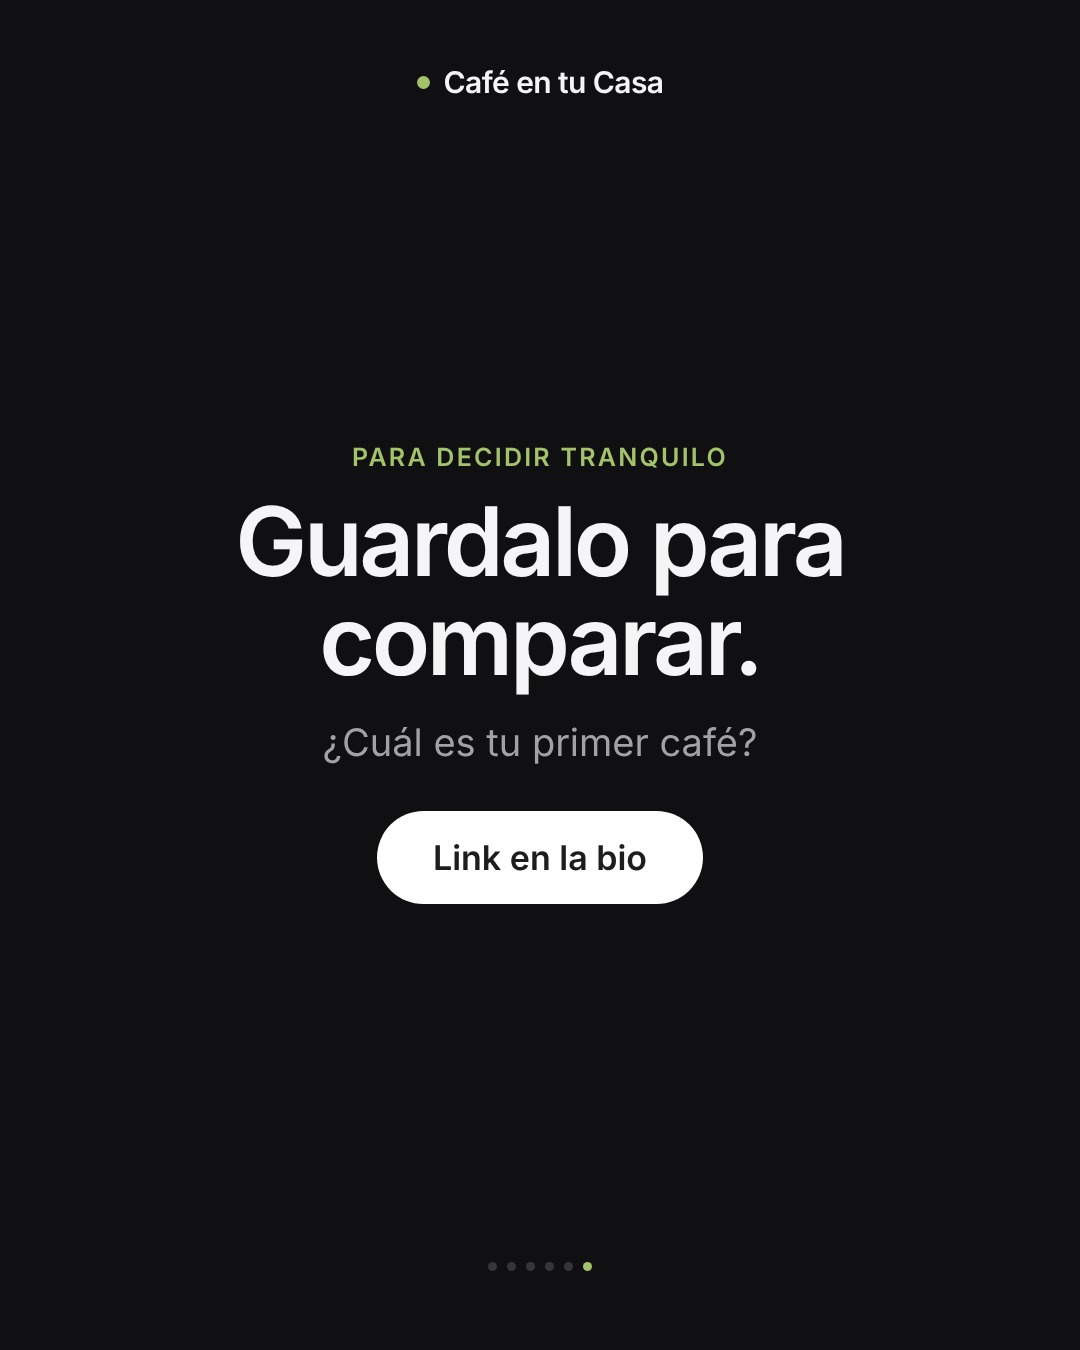
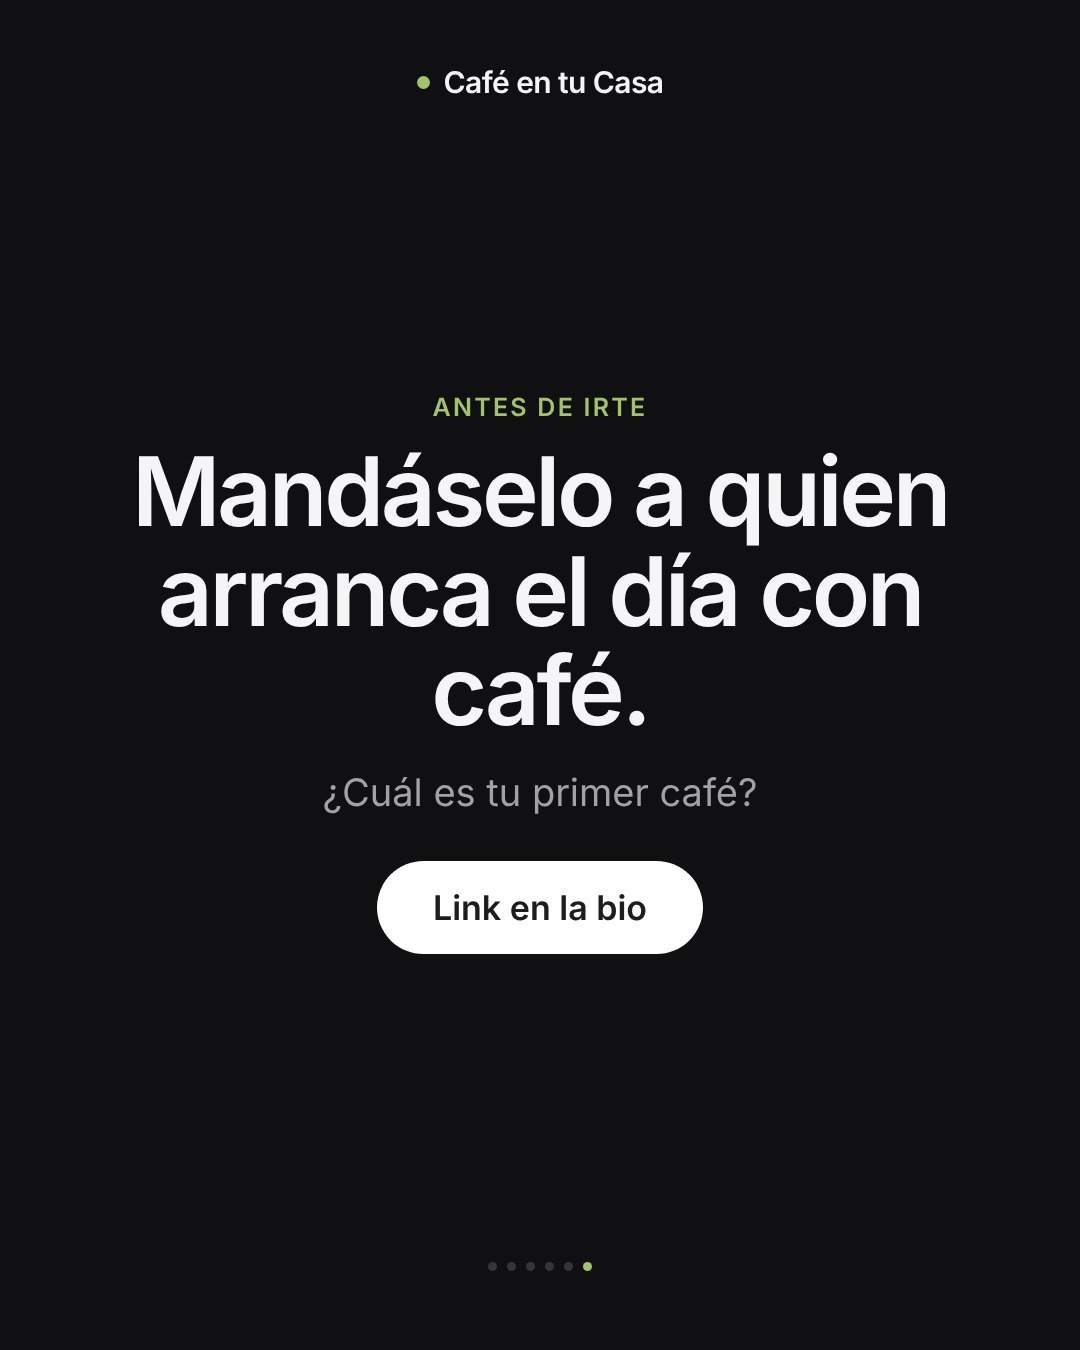
SEO y estética: palabras clave en títulos, FAQ de cápsulas, precios del café alineados con los carruseles
- Títulos de página con 'cafetera superautomática/espresso' y 'qué cafetera comprar'
- Palabras clave visibles arriba del H1; alt de la foto principal descriptivo
- FAQ nuevas: diferencia con cápsulas y qué es una superautomática
- Sección del concepto sin tarjetas, para cortar la seguidilla de cajas
- Café afuera $4.000 y kilo $60.000 (relevados el 26/10, los mismos de los carruseles)
- Piezas nuevas: cierre con motivo concreto en vez de 'Guardalo para comparar'

Claude-Session: https://claude.ai/code/session_019YKpfs3ape9hY2rsYQRxe8

Changed region(s): [[0.1222, 0.28, 0.8861, 0.7156]]

diff --git a/index.html b/index.html
@@ -3,14 +3,14 @@
 <head>
 <meta charset="UTF-8">
 <meta name="viewport" content="width=device-width, initial-scale=1">
-<title>Café en tu Casa — Cafeteras De'Longhi y Krups con 20% OFF</title>
-<meta name="description" content="Tu casa merece café de verdad. Cafeteras espresso y superautomáticas De'Longhi y Krups: café en grano, recién molido, con un botón. 20% OFF pagando por transferencia o hasta 9 cuotas sin interés en Mercado Libre. Envío gratis a todo el país.">
+<title>Cafeteras superautomáticas y espresso De'Longhi | Café en tu Casa</title>
+<meta name="description" content="Cafeteras superautomáticas y espresso De'Longhi para tu casa: café en grano, recién molido, con un botón. La alternativa a las cápsulas. 20% OFF pagando por transferencia o hasta 9 cuotas sin interés en Mercado Libre. Envío gratis a todo el país.">
 <meta name="theme-color" content="#ffffff">
 <link rel="canonical" href="https://cafe-en-tu-casa.vercel.app/">
 
 <meta property="og:type" content="website">
 <meta property="og:site_name" content="Café en tu Casa">
-<meta property="og:title" content="Café en tu Casa — Cafeteras De'Longhi y Krups">
+<meta property="og:title" content="Café en tu Casa — Tu casa merece café de verdad">
 <meta property="og:description" content="Tu casa merece café de verdad. Vos también. 20% OFF por transferencia o hasta 9 cuotas sin interés. Envío gratis a todo el país.">
 <meta property="og:image" content="https://cafe-en-tu-casa.vercel.app/assets/img/og.jpg">
 <meta property="og:image:width" content="1200">
@@ -80,7 +80,7 @@
         <span data-slot="off">20%</span> OFF por transferencia
       </span>
 
-      <h1 class="t-display">Tu casa merece<br>café de verdad.<br>Vos también.</h1>
+      <h1 class="t-display"><span class="h1-clave">Cafeteras superautomáticas y espresso para tu casa</span>Tu casa merece<br>café de verdad.<br>Vos también.</h1>
 
       <p class="plomo">Café en grano, recién molido, con un botón. Superautomáticas y espresso
       De'Longhi y Krups, con envío gratis a todo el país.</p>
@@ -99,7 +99,7 @@
     <div class="hero-img">
       <picture>
         <source media="(max-width: 900px)" srcset="assets/img/hero-mobile.jpg">
-        <img src="assets/img/hero.jpg" alt="Cafetera superautomática sobre una mesada de cocina" width="1792" height="2400" fetchpriority="high">
+        <img src="assets/img/hero.jpg" alt="Mujer con un café con leche junto a su cafetera superautomática, en la cocina de su casa" width="1792" height="2400" fetchpriority="high">
       </picture>
     </div>
   </section>
@@ -132,12 +132,12 @@
     <div class="envoltorio">
       <header class="centro aparece" style="max-width:640px;margin:0 auto clamp(32px,4vw,48px)">
         <p class="epigrafe">El lujo de todos los días</p>
-        <h2 class="t-1" style="margin:14px 0 16px">Una buena mañana empieza con un buen café.</h2>
+        <h2 class="t-1" style="margin:14px 0 16px">Café de cafetería, en tu casa, todas las mañanas.</h2>
         <p class="plomo">El lujo no es algo que se guarda para una ocasión especial. Es el primer café
         del día, hecho como te gusta, en tu casa. Y te lo merecés todas las mañanas.</p>
       </header>
 
-      <div class="franja">
+      <div class="franja franja-plana">
         <article class="franja-item aparece">
           <h3>Ganás tiempo</h3>
           <p>No salís a buscarlo ni hacés fila. Apretás un botón y en un minuto está en tu taza.</p>
@@ -158,7 +158,7 @@
   <section class="seccion negro" id="capsulas">
     <div class="envoltorio">
       <header class="centro aparece" style="max-width:640px;margin:0 auto clamp(32px,4vw,48px)">
-        <p class="epigrafe" style="color:#a3c26a">La diferencia</p>
+        <p class="epigrafe" style="color:#a3c26a">Cápsulas o café en grano</p>
         <h2 class="t-1" style="margin:14px 0 16px">Una buena mañana<br>no viene en cápsulas.</h2>
         <p class="plomo">No es otra cafetera. Es otro café.</p>
       </header>
@@ -343,6 +343,19 @@
           <p>Sí. Desde cada ficha de producto tenés el botón que te lleva a nuestra publicación oficial
           en Mercado Libre, donde comprás con tarjeta de crédito en cuotas sin interés (hasta 9 según el modelo).
           El descuento por transferencia no se combina con la financiación en cuotas.</p>
+        </details>
+        <details>
+          <summary>¿Qué diferencia hay con una cafetera de cápsulas?</summary>
+          <p>La cafetera de cápsulas usa café que se molió en la fábrica y viene encerrado en cada cápsula.
+          Una superautomática muele el café en grano en el momento, para cada taza, y vos elegís el grano,
+          la molienda y la intensidad. Las dos se usan con un botón; la diferencia está en la taza.
+          Y en vez de una cápsula por café, queda borra, que sirve para las plantas.</p>
+        </details>
+        <details>
+          <summary>¿Qué es una cafetera superautomática?</summary>
+          <p>Es una cafetera express con molinillo integrado: cargás el café en grano y, con un botón, la máquina
+          muele, prepara y sirve el espresso sola. La Magnifica S es superautomática. La Dedica es una espresso
+          manual: el café lo cargás y lo preparás vos, con portafiltro, como en una cafetería.</p>
         </details>
         <details>
           <summary>¿Hacen envíos a todo el país?</summary>

diff --git a/instagram/contenido.js b/instagram/contenido.js
@@ -582,6 +582,8 @@ const PIEZAS = [
     const foto = n => ({ t: 'escena', estilo: 'limpia', img: E(n) });
     const tarjeta = (n, ep, h, extra = {}) => ({ t: 'escena', estilo: 'tarjeta', img: E(n), ep, h, ...extra });
     const cierre = sub => ({ t: 'cta', tono: 'oscuro', ep: 'Para decidir tranquilo', h: 'Guardalo para comparar.', sub, boton: 'Link en la bio' });
+    // Cierre con un motivo concreto (regla del calendario: nada de "Guardalo para comparar")
+    const cierreE = (accion, motivo, sub) => ({ t: 'cta', tono: 'oscuro', ep: 'Antes de irte', h: `${accion}<br>${motivo}`, sub, boton: 'Link en la bio' });
     const pago = ps => ps.map(preciosCortos).join('\n\n') + '\n\n' + COMO_PAGAR + ' Envío gratis a todo el país.';
     const texto = (gancho, cuerpo, ps, accion, pregunta, tags) =>
       `${gancho}\n\n${cuerpo}\n\n${pago(ps)}\n\n${accion}\n\n${pregunta}\n\n${tags}`;
@@ -657,11 +659,11 @@ const PIEZAS = [
            items: [['Tiempo', 'No salís a buscarlo. Apretás un botón.'],
                    ['Sabor', 'El grano se muele en el momento, para cada taza.'],
                    ['Buen humor', 'El día arranca bien. Y se nota.']] },
-         foto('magnifica-latte-art'), ...DISP.map(placaPrecio), cierre('¿Cuál es tu primer café?')]),
+         foto('magnifica-latte-art'), ...DISP.map(placaPrecio), cierreE('Mandáselo a quien', 'arranca el día con café.', '¿Cuál es tu primer café?')]),
       pieza('e1130-post-vos-tambien', 'post', 'Tu casa merece café de verdad',
         texto('Tu casa merece café de verdad. Vos también. ☕',
           `Trabajaste todo el año. Una buena mañana empieza con un buen café, y ese café lo podés tener en tu cocina. La ${P.nombre(M)} muele el grano en el momento y te lo sirve con un botón.`,
-          [M], 'Guardalo para comparar.', '¿Hace cuánto que te debés un buen café en casa?', '#cafeencasa #delonghi #magnificas #telomereces'),
+          [M], 'Mandáselo a quien se merece un buen café este año.', '¿Hace cuánto que te debés un buen café en casa?', '#cafeencasa #delonghi #magnificas #telomereces'),
         [tarjeta('magnifica-desayuno-pareja', 'Café de cafetería, en tu casa', 'Tu casa merece café de verdad.<br><em>Vos también.</em>')]),
       pieza('e1204-carrusel-no-viene-en-capsulas', 'carrusel', 'Una buena mañana no viene en cápsulas',
         texto('Una buena mañana no viene en cápsulas. ☕',
@@ -674,8 +676,8 @@ const PIEZAS = [
              { destacada: true, ep: 'Grano', h: 'Molido en el momento', items: ['Vos elegís grano y molienda', 'Queda borra, para las plantas'] }
            ] },
          { t: 'dato', tono: 'oscuro', ep: 'Cada taza de grano, aprox.', num: fmt(costoCasa),
-           sub: `Con un kilo a ${fmt(TIENDA.precioKiloCafe)} y ${TIENDA.cafesPorKilo} tazas por kilo.`, p: 'Valor aproximado, con precio de grano de noviembre 2026.' },
-         ...DISP.map(placaPrecio), cierre('¿Cápsula o grano?')]),
+           sub: `Con un kilo a ${fmt(TIENDA.precioKiloCafe)} y ${TIENDA.cafesPorKilo} tazas por kilo.`, p: 'Valor aproximado, con precio de grano relevado el 26/10.' },
+         ...DISP.map(placaPrecio), cierreE('Mandáselo a quien', 'todavía toma de cápsula.', '¿Cápsula o grano?')]),
       pieza('e1214-post-te-das-el-gusto', 'post', 'Te das el gusto porque podés',
         texto('Te das el gusto porque podés. ☕',
           `Este año el regalo es para vos. Es de los que se usan todas las mañanas, durante años. La ${P.nombre(M)}: un botón, grano recién molido, el café de cafetería en tu casa.`,
@@ -688,7 +690,7 @@ const PIEZAS = [
         [tarjeta('dedica-negra-espresso', 'Lunes', 'Un espresso corto<br><em>para arrancar.</em>'),
          tarjeta('dedica-blanca-espumando', 'Miércoles', 'Un latte<br><em>sin apuro.</em>'),
          tarjeta('magnifica-desayuno-familia', 'Domingo', 'Un cortado<br><em>para compartir.</em>'),
-         ...DISP.map(placaPrecio), cierre('¿Cuál es tu café del domingo?')])
+         ...DISP.map(placaPrecio), cierreE('Guardalo:', 'es tu menú de la semana.', '¿Cuál es tu café del domingo?')])
     ];
   })()
 ];

diff --git a/magnifica-s.html b/magnifica-s.html
@@ -3,14 +3,14 @@
 <head>
 <meta charset="UTF-8">
 <meta name="viewport" content="width=device-width, initial-scale=1">
-<title>De'Longhi Magnifica S ECAM11112B — Café en tu Casa</title>
+<title>Cafetera superautomática De'Longhi Magnifica S ECAM11112B | Café en tu Casa</title>
 <meta name="description" content="De'Longhi Magnifica S ECAM11112B superautomática con molinillo integrado. 20% OFF pagando por transferencia o 9 cuotas sin interés en Mercado Libre. Envío gratis a todo el país.">
 <meta name="theme-color" content="#ffffff">
 <link rel="canonical" href="https://cafe-en-tu-casa.vercel.app/magnifica-s.html">
 
 <meta property="og:type" content="product">
 <meta property="og:site_name" content="Café en tu Casa">
-<meta property="og:title" content="De'Longhi Magnifica S ECAM11112B">
+<meta property="og:title" content="Cafetera superautomática De'Longhi Magnifica S">
 <meta property="og:description" content="Superautomática con molinillo integrado. 20% OFF por transferencia o 9 cuotas sin interés.">
 <meta property="og:image" content="https://cafe-en-tu-casa.vercel.app/assets/img/og-magnifica-s.jpg">
 <meta property="og:image:width" content="1200">

diff --git a/krups-roma.html b/krups-roma.html
@@ -3,14 +3,14 @@
 <head>
 <meta charset="UTF-8">
 <meta name="viewport" content="width=device-width, initial-scale=1">
-<title>Krups Roma EA8105 — Café en tu Casa</title>
+<title>Cafetera superautomática Krups Roma EA8105 | Café en tu Casa</title>
 <meta name="description" content="Krups Roma EA8105 superautomática con molinillo integrado y 3 niveles de molienda. 20% OFF pagando por transferencia o 6 cuotas sin interés en Mercado Libre. Envío gratis a todo el país.">
 <meta name="theme-color" content="#ffffff">
 <link rel="canonical" href="https://cafe-en-tu-casa.vercel.app/krups-roma.html">
 
 <meta property="og:type" content="product">
 <meta property="og:site_name" content="Café en tu Casa">
-<meta property="og:title" content="Krups Roma EA8105">
+<meta property="og:title" content="Cafetera superautomática Krups Roma EA8105">
 <meta property="og:description" content="Superautomática compacta con 3 niveles de molienda. 20% OFF por transferencia o 6 cuotas sin interés.">
 <meta property="og:image" content="https://cafe-en-tu-casa.vercel.app/assets/img/og-krups-roma.jpg">
 <meta property="og:image:width" content="1200">

diff --git a/dedica.html b/dedica.html
@@ -3,14 +3,14 @@
 <head>
 <meta charset="UTF-8">
 <meta name="viewport" content="width=device-width, initial-scale=1">
-<title>De'Longhi Dedica EC685 — Café en tu Casa</title>
+<title>Cafetera espresso De'Longhi Dedica EC685 | Café en tu Casa</title>
 <meta name="description" content="De'Longhi Dedica EC685: cafetera espresso manual de solo 15 cm de ancho. 20% OFF pagando por transferencia o 9 cuotas sin interés en Mercado Libre. Envío gratis a todo el país.">
 <meta name="theme-color" content="#ffffff">
 <link rel="canonical" href="https://cafe-en-tu-casa.vercel.app/dedica.html">
 
 <meta property="og:type" content="product">
 <meta property="og:site_name" content="Café en tu Casa">
-<meta property="og:title" content="De'Longhi Dedica EC685">
+<meta property="og:title" content="Cafetera espresso De'Longhi Dedica EC685">
 <meta property="og:description" content="Espresso manual, solo 15 cm de ancho. 20% OFF por transferencia o 9 cuotas sin interés.">
 <meta property="og:image" content="https://cafe-en-tu-casa.vercel.app/assets/img/og-dedica.jpg">
 <meta property="og:image:width" content="1200">

diff --git a/assets/css/estilos.css b/assets/css/estilos.css
@@ -600,6 +600,12 @@ h1, h2, h3, h4 {
 .gris .franja-item { background: #fff; }
 .negro .franja-item { background: #1c1c1f; border-color: rgba(255, 255, 255, .12); }
 .negro .franja-item p { color: #a1a1a6; }
+/* Franja sin tarjetas: corta la seguidilla de cajas entre secciones */
+.franja-plana .franja-item { background: none; border: 0; border-top: 2px solid var(--brand); border-radius: 0; padding: 22px 4px 0; }
+.franja-plana .franja-item h3 { font-size: 1.25rem; }
+/* Palabras clave visibles arriba del título principal (SEO) */
+.h1-clave { display: block; font-size: .8125rem; font-weight: 600; letter-spacing: .08em; text-transform: uppercase;
+  color: var(--brand); margin-bottom: 18px; line-height: 1.4; }
 .franja-item svg { width: 26px; height: 26px; stroke: var(--brand); fill: none; stroke-width: 1.6; margin-bottom: 14px; }
 .franja-item h3 { font-size: 1.0625rem; margin-bottom: 7px; }
 .franja-item p { font-size: .9375rem; color: var(--ink-2); }

diff --git a/assets/js/productos.js b/assets/js/productos.js
@@ -20,8 +20,8 @@ const TIENDA = {
   garantiaMeses: 12,
 
   // Para la calculadora de amortizacion. Actualizalos cuando cambien.
-  precioCafeAfuera: 3500,   // lo que sale un cafe en un bar, en pesos
-  precioKiloCafe: 45000,    // lo que te sale 1 kg de cafe en grano (Causa Tostadores, 1 kg especialidad, nov 2026)
+  precioCafeAfuera: 4000,   // lo que sale un cafe en un bar, en pesos (relevado el 26/10/2026)
+  precioKiloCafe: 60000,    // lo que te sale 1 kg de cafe en grano (relevado el 26/10/2026; mismo valor que los carruseles)
   cafesPorKilo: 130,        // tazas que salen de 1 kg (aprox 7,5 g por taza)
 
   url: 'https://cafe-en-tu-casa.vercel.app'

diff --git a/elegir.html b/elegir.html
@@ -3,7 +3,7 @@
 <head>
 <meta charset="UTF-8">
 <meta name="viewport" content="width=device-width, initial-scale=1">
-<title>¿Cuál es tu cafetera? — Café en tu Casa</title>
+<title>¿Qué cafetera comprar? Test de un minuto | Café en tu Casa</title>
 <meta name="description" content="Cuatro preguntas y te decimos qué cafetera te conviene: De'Longhi Magnifica S, Krups Roma o De'Longhi Dedica. Incluye calculadora de en cuánto se paga sola.">
 <meta name="theme-color" content="#ffffff">
 <link rel="canonical" href="https://cafe-en-tu-casa.vercel.app/elegir.html">

diff --git a/marca/calendario-dic-2026.md b/marca/calendario-dic-2026.md
@@ -21,9 +21,9 @@ En **negrita**, las 5 piezas nuevas (ya generadas en `assets/img/ig/e1*.jpg`).
 | Jue 3/12 | Las 4 dudas antes de comprar | E | **Está en borrador**: si la querés, hay que aprobarla en Metricool |
 | **Vie 4/12** | **Una buena mañana no viene en cápsulas** (carrusel) | C | **Nueva** |
 | Lun 7/12 | Dedica: espresso de verdad | Ca | Programada · queda |
-| Mar 8/12 | Este año, el regalo es para vos (test A/B) | X | Programada · queda, ya va con el concepto |
+| Mar 8/12 | Este año, el regalo es para vos (test A/B) | X | Programada · queda, ya va con el concepto. (En el artifact "Carruseles de verano" figura el lunes 7; en Metricool está el martes 8.) |
 | Mié 9/12 | Magnifica S, home office | Ca | Programada · queda |
-| Jue 10/12 | 5° B gasta $2.920.000 por año en café | C | Programada · **revisar números** |
+| Jue 10/12 | 5° B gasta $2.920.000 por año en café | C | Programada · queda (números del 26/10, coherentes con el sitio) |
 | Vie 11/12 | Dedica: la espuma, en casa | Ca | Programada · queda |
 | **Lun 14/12** | **Te das el gusto porque podés** (post) | X | **Nueva** |
 | Mar 15/12 | Faltan 10 días para Navidad | X | Programada · queda |
@@ -58,16 +58,14 @@ Cambiar "Después de un año largo, el café de cafetería en tu casa" por:
 > Después de un año largo, te das el gusto porque podés. El café de cafetería, en tu casa, todas las
 > mañanas.
 
-**Jue 10/12 · "5° B gasta $2.920.000 por año"**
-Esos números se calcularon con los precios de café del 26/10. El kilo de grano se actualizó a $45.000
-(antes $18.000): **antes de que salga, hay que rehacer la cuenta.** Ver "Lo que falta" abajo.
+**Precios del café.** El sitio y las piezas nuevas usan los mismos valores que los carruseles de
+diciembre y enero (relevados el 26/10): café en el bar a $4.000 y kilo de grano a $60.000, unos $462 por
+taza. Si cambian, se actualizan en `productos.js` y se regenera todo.
 
 ## Lo que falta
 
 - **Subir las 5 piezas nuevas a Metricool.** Las imágenes tienen que estar online: primero se publica esta
   rama en el sitio y después se programan desde ahí. Avisame y lo hago.
-- **El precio del café afuera** (`precioCafeAfuera` en `productos.js`) sigue en $3.500. Si hoy un café
-  en el bar sale más, actualizalo. Cambia la calculadora del sitio y la cuenta del 10/12.
 - **El precio de la cápsula.** No encontré un precio actual y confiable para Argentina, así que por ahora
   ninguna pieza compara el costo por taza contra la cápsula. Si me pasás cuánto sale hoy una caja,
   sumo esa placa.

diff --git a/marca/guiones-whatsapp.md b/marca/guiones-whatsapp.md
@@ -44,7 +44,7 @@ Si la más barata le sirve más, decíselo:
 
 **"Es cara."**
 > Te entiendo. Hacé esta cuenta: un café afuera sale [precio café afuera]. Uno hecho en casa con buen
-> grano sale unos $350. Si tomás un par por día, la cafetera se paga sola, y en el sitio tenés la cuenta
+> grano sale unos $460. Si tomás un par por día, la cafetera se paga sola, y en el sitio tenés la cuenta
 > exacta para tu caso: [link a elegir.html]. Y la vas a usar todos los días durante años. Te la merecés.
 
 **"Ya tengo una de cápsulas."**
